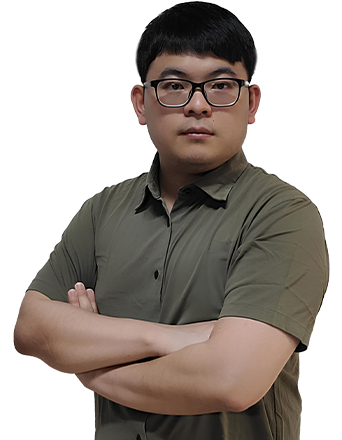
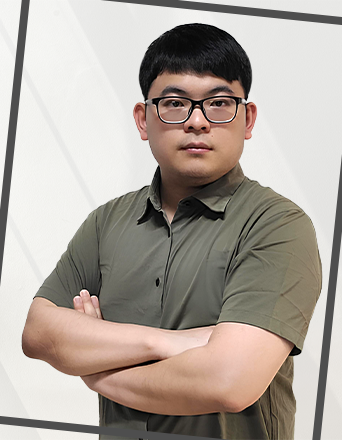
Add files via upload

diff --git a/index.html b/index.html
@@ -378,93 +378,89 @@
     <!-- ./artwork -->
 
 
+
+
     <!-- popup -->
-<div class="popup pop1">
-    <div>
+    <!--  카드뉴스 1 -->
+    <div class="popup pop3">
         <div>
             <div class="swiper-container slide">
                 <div class="swiper-wrapper">
                     <div class="swiper-slide">
-                        <img src="./img/poster_2.png" alt="배너1">
+                        <div class="card_slide">
+                            <div class="swiper cardnews">
+                                <div class="swiper-wrapper">
+                                    <div class="swiper-slide"><img src="./img/Artboard 1_1.png" alt="cardnews"></div>
+                                    <div class="swiper-slide"><img src="./img/Artboard 1_2.png" alt="cardnews"></div>
+                                    <div class="swiper-slide"><img src="./img/Artboard 1_3.png" alt="cardnews"></div>
+                                    <div class="swiper-slide"><img src="./img/Artboard 1_4.png" alt="cardnews"></div>
+                                    <div class="swiper-slide"><img src="./img/Artboard 1_5.png" alt="cardnews"></div>
+                                </div>
+                                <div class="swiper-pagination"></div>
+                            </div>
+                        </div>
+                    </div>
+                </div>
+            </div>
+
+            <!-- ❌ 아래 pagination 중복! 삭제 가능 -->
+            <!-- <div class="swiper-pagination"></div> -->
+
+            <a href="#none"><i class="ion-close-round"></i></a>
+        </div>
+    </div>
+
+    <!-- 카드뉴스 2 -->
+    <div class="popup pop1">
+        <div>
+            <div class="swiper-container slide">
+                <div class="swiper-wrapper">
+                    <div class="swiper-slide">
+                        <div class="card_slide">
+                            <div class="swiper cardnews">
+                                <div class="swiper-wrapper">
+                                    <div class="swiper-slide"><img src="./img/Artboard 2_1.png" alt="cardnews"></div>
+                                    <div class="swiper-slide"><img src="./img/Artboard 2_2.png" alt="cardnews"></div>
+                                    <div class="swiper-slide"><img src="./img/Artboard 2_3.png" alt="cardnews"></div>
+                                    <div class="swiper-slide"><img src="./img/Artboard 2_4.png" alt="cardnews"></div>
+                                    <div class="swiper-slide"><img src="./img/Artboard 2_5.png" alt="cardnews"></div>
+                                </div>
+                                <div class="swiper-pagination"></div>
+                            </div>
+                        </div>
+                    </div>
+                </div>
+            </div>
+
+            <!-- ❌ 아래 pagination 중복! 삭제 가능 -->
+            <!-- <div class="swiper-pagination"></div> -->
+
+            <a href="#none"><i class="ion-close-round"></i></a>
+        </div>
+    </div>
+
+    <!-- 화장품광고 -->
+    <div class="popup pop2">
+        <div>
+            <div class="swiper-container slide">
+                <div class="swiper-wrapper">
+                    <div class="swiper-slide">
+                        <img src="./img/poster_3.png" alt="배너1">
                     </div>
                     <!-- <div class="swiper-slide">
-                        <img src="./img/bongus_2.jpg" alt="배너2">
-                    </div> -->
+                            <img src="./img/bongus_2.jpg" alt="배너2">
+                        </div> -->
                 </div>
             </div>
             <!-- 화살표 버튼 -->
             <!-- <div class="swiper-button-next"></div>
-            <div class="swiper-button-prev"></div> -->
+                <div class="swiper-button-prev"></div> -->
             <!-- 블릿 버튼 -->
             <div class="swiper-pagination"></div>
 
             <a href="#none"><i class="ion-close-round"></i></a>
         </div>
     </div>
-
-    <!-- ❌ 아래 pagination 중복! 삭제 가능 -->
-    <!-- <div class="swiper-pagination"></div> -->
-
-    <a href="#none"><i class="ion-close-round"></i></a>
-  </div>
-</div>
-
-
-<div class="popup pop2">
-    <div>
-        <div class="swiper-container slide">
-            <div class="swiper-wrapper">
-                <div class="swiper-slide">
-                    <img src="./img/poster_3.png" alt="배너1">
-                </div>
-                <!-- <div class="swiper-slide">
-                        <img src="./img/bongus_2.jpg" alt="배너2">
-                    </div> -->
-            </div>
-        </div>
-        <!-- 화살표 버튼 -->
-        <!-- <div class="swiper-button-next"></div>
-            <div class="swiper-button-prev"></div> -->
-        <!-- 블릿 버튼 -->
-        <div class="swiper-pagination"></div>
-
-        <a href="#none"><i class="ion-close-round"></i></a>
-    </div>
-</div>
-
-
-
-<!--  정관장 배너 -->
-<div class="popup pop3">
-    <div>
-        <div class="swiper-container slide">
-            <div class="swiper-wrapper">
-                <div class="swiper-slide">
-                    <img src="./img/poster_1.png" alt="배너1">
-                </div>
-                <!-- <div class="swiper-slide">
-                        <img src="./img/bongus_2.jpg" alt="배너2">
-                    </div> -->
-            </div>
-        </div>
-        <!-- 화살표 버튼 -->
-        <!-- <div class="swiper-button-next"></div>
-            <div class="swiper-button-prev"></div> -->
-        <!-- 블릿 버튼 -->
-        <div class="swiper-pagination"></div>
-
-        <a href="#none"><i class="ion-close-round"></i></a>
-    </div>
-</div>
-
-
- 
-
-
-
-
-
-
     <!-- ./popup -->
 
 

diff --git a/css/style.css b/css/style.css
@@ -411,7 +411,9 @@ a.active {
 .aboutme {
     font-size: 20px;
     font-weight: 400;
+    padding-top: 20px;
     padding-bottom: 20px;
+    line-height: 28px;
 }
 
 .yellowtype {
@@ -1180,7 +1182,8 @@ a.active {
 /* 카드 */
 
 .card_slide {
-    width: 120%;
+    /* width: 120%; */
+    width: 100%;
     height: 500px;
     /* background-color: white; */
 
@@ -1231,8 +1234,15 @@ a.active {
 }
 
 /* .popup.pop1.active .card_slide */
-.popup.active .card_slide {
+/* .popup.active .card_slide {
     width: 500px;
+    height: 600px;
+    transition: all 0.5s ease;
+    background: none;
+} */
+.popup.active .card_slide {
+    /* width: 500px; */
+    width: 1000px;
     /* 적당한 이미지 카드 크기 */
     height: 600px;
     transition: all 0.5s ease;
@@ -1294,7 +1304,16 @@ a.active {
 
 /* 팝업 내부 슬라이더를 꽉 채우게 */
 /* .popup.pop1.active .card_slide */
-.popup.active .card_slide {
+/* .popup.active .card_slide {
+    width: 400px;
+    height: 500px;
+    max-width: 100%;
+    max-height: 90vh;
+    transition: all 0.5s ease;
+    background: none;
+    overflow: hidden;
+} */
+.popup .card_slide {
     width: 400px;
     height: 500px;
     max-width: 100%;
@@ -1322,7 +1341,16 @@ a.active {
     align-items: center;
 }
 /* .popup.pop1.active .card_slide */
-.popup.active .card_slide {
+/* .popup.active .card_slide {
+    width: 400px;
+    height: 500px;
+    max-width: 100%;
+    max-height: 90vh;
+    background: none;
+    overflow: hidden;
+    transition: all 0.5s ease;
+} */
+.popup .card_slide {
     width: 400px;
     height: 500px;
     max-width: 100%;
@@ -1552,7 +1580,8 @@ a.active {
 
 /* 카드 전용 스타일 */
 .card_slide {
-    width: 120%;
+    /* width: 120%; */
+    width: 100%;
     height: 500px;
 }
 
@@ -1601,7 +1630,16 @@ a.active {
 
 /* 팝업 카드 슬라이드 - 크기 조절 */
 /* .popup.pop1.active .card_slide */
-.popup.active .card_slide {
+/* .popup.active .card_slide {
+    width: 950px;
+    height: 650px;
+    max-width: 100%;
+    max-height: 90vh;
+    background: none;
+    overflow: hidden;
+    transition: all 0.5s ease;
+} */
+.popup .card_slide {
     width: 950px;
     height: 650px;
     max-width: 100%;
@@ -1650,15 +1688,18 @@ a.active {
 /* 3번 */
 .pop2 .swiper-container {
     /* width: 100vw; */
-    width: 500px;
+    /* width: 500px; */
+    width: 1000px;
     height: auto;
-    max-width: 500px;
+    /* max-width: 500px; */
+    max-width: 1000px;
     box-sizing: border-box;
     overflow: hidden;
 }
 .pop2 .swiper-slide img {
     width: 100%;
     max-width: 500px;
+    /* max-width: 1000px; */
     height: auto;
     display: block;
 }
